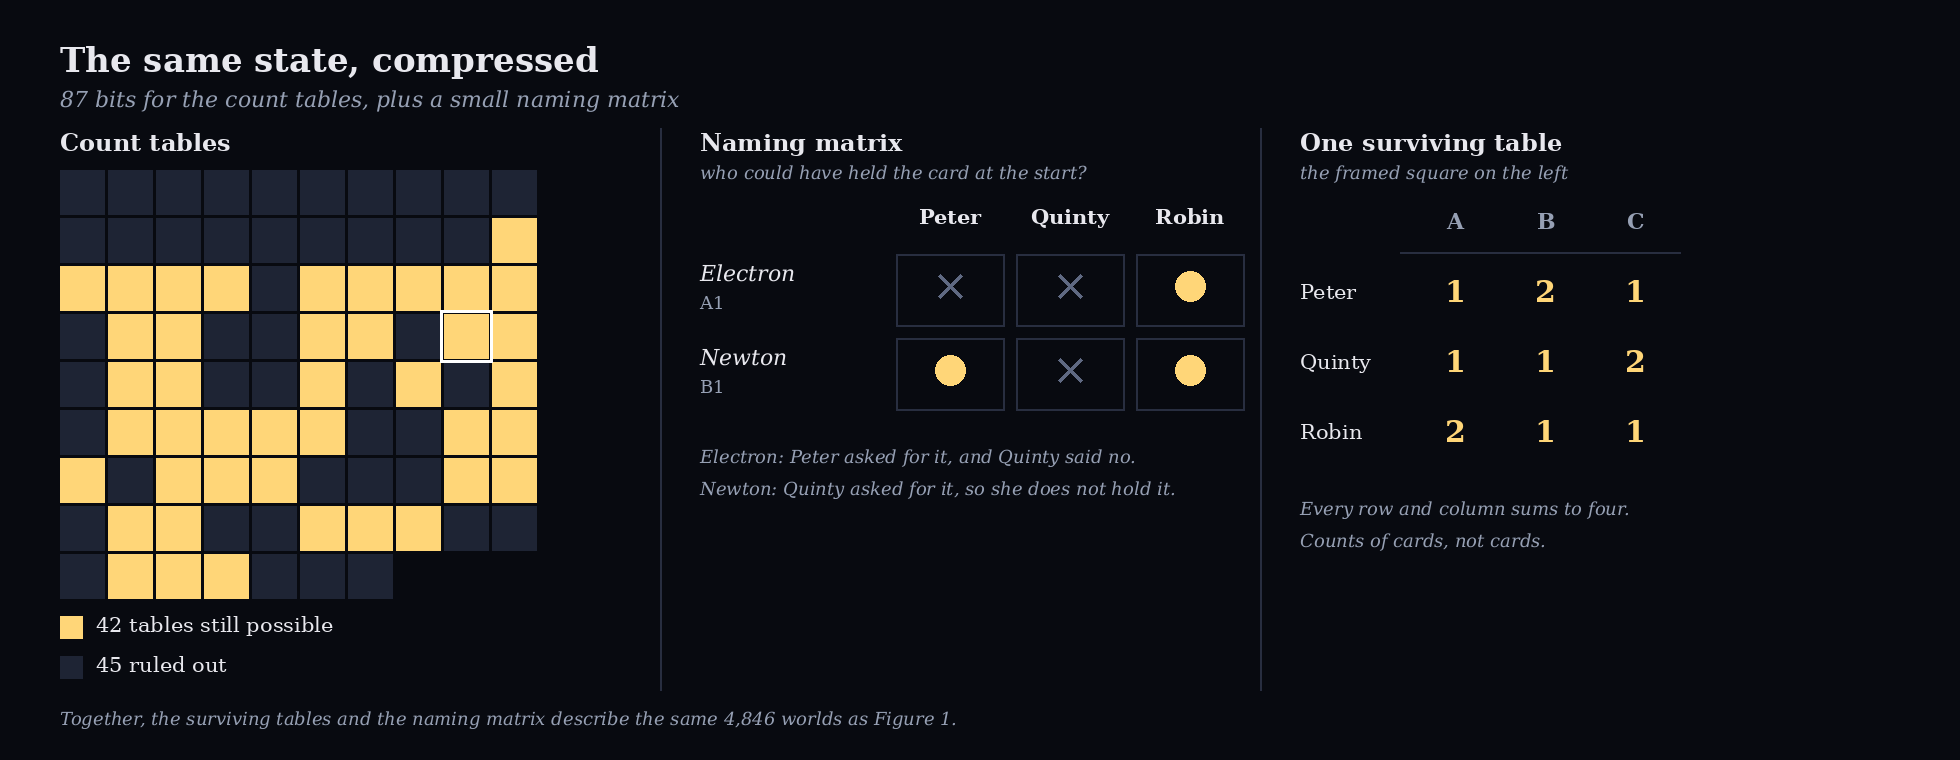
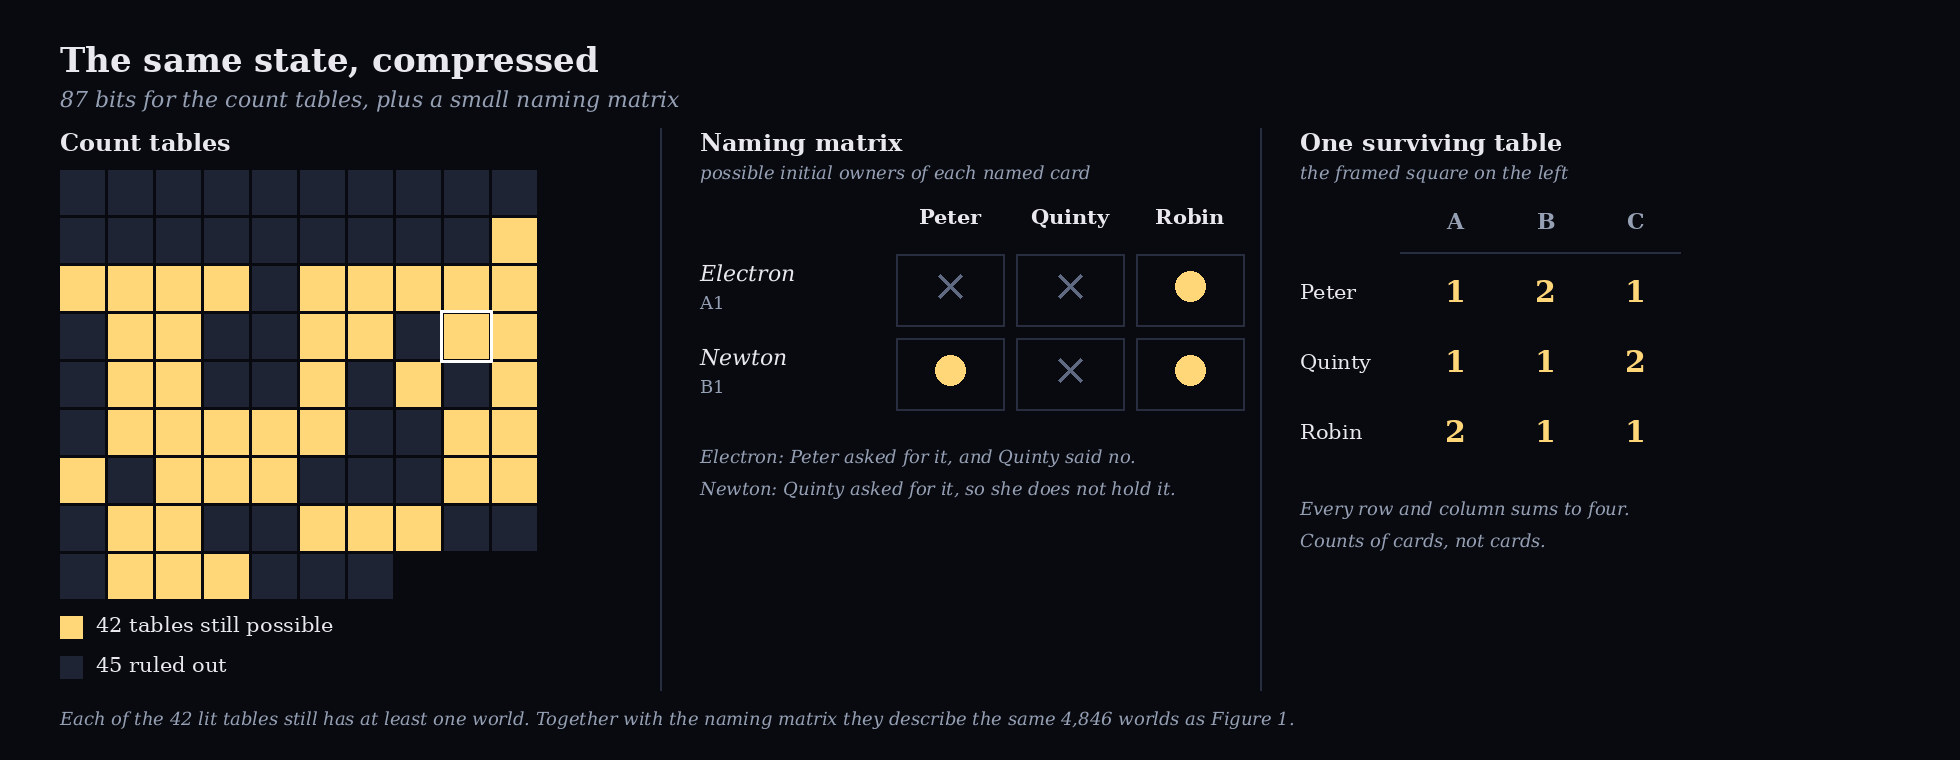
update

Changed region(s): [[0.0311, 0.9382, 0.6536, 0.9684], [0.3423, 0.2118, 0.5602, 0.2421]]

diff --git a/post1/article.md b/post1/article.md
@@ -5,15 +5,17 @@
 ![Feature image: a hand of cards, one named Electron, three still blank](./figures/feature_image.png)
 *Feature image: four cards, one of which has just received its name.*
 
-<!-- Working title and subtitle, not final. Draft status: sections 1-4 are Rob's text (typos and grammar fixed); sections 5-7 are Claude drafts for Rob to edit. Open: side-by-side test result in section 6, pull quote 2 wording, reading list and origin note. Running example is physics (elementary particles, electron). -->
-
 ## Kwartet Without Cards Always Ends in Confusion
 
-Imagine a card game in which no card exists. Not only does no one hold a physical card, but also what is actually on the virtual cards we play with is not yet defined. The cards are made up as you play. The rule is that you are not allowed to make a move that is inconsistent with what happened earlier in the game. A friend proposed this game when we were travelling with some fellow students to a physics conference in the mid-1990s. It was fun, but it always ended in confusion: after a few rounds it became almost impossible to track the history and determine what was still a legal move.
+Imagine a card game in which no card exists. Not only does no one hold a physical card, but also what is actually on the virtual cards we play with is not yet defined. The cards are made up as you play. The rule is that you are not allowed to make a move that is inconsistent with what happened earlier in the game.
+
+I got to know this game when a friend proposed it while we were travelling with some fellow students to a physics conference in the mid-1990s. It was fun, but it always ended in confusion: after a few rounds it became almost impossible to track the history and determine what was still a legal move.
 
 The game is based on the Dutch children's game Kwartet, which is very similar to Go Fish. Players assemble the four cards of a category by asking other players for them. Once you have a complete category you say "Kwartet" and lay down the cards. When you ask for a card you have to be specific ("Can you give me Archimedes from the Greek mathematicians?"). If the other player has the card, it is handed over and you can ask again. If not, it is their turn. You may only ask for a card from a category in which you already hold a card, and never for a card you hold yourself.
 
-In our variant we only fixed how many cards were in the game, how many each player held initially, and the fact that nobody had a kwartet from the start. Then the first question ("Can you give me the electron from the elementary particles?") defined a category (the elementary particles) and one member of that category (the electron). But the question also told us that the first player held at least one other card from the elementary particles, but not the electron. The second player could answer yes or no. Depending on the answer, the card was virtually handed over, or the turn moved to the second player. After a few questions multiple categories were defined, with partially identified members, and a list of constraints on the players' hands emerged. This is where we got lost. Is there a way to manage this bookkeeping?
+In our variant we only fixed how many cards were in the game, how many each player held initially, and the fact that nobody had a kwartet from the start. Then the first question ("Can you give me the electron from the elementary particles?") defined a category (the elementary particles) and one member of that category (the electron). But the question also told us that the first player held at least one other card from the elementary particles, but not the electron. The second player could answer yes or no. Depending on the answer, the card was virtually handed over, or the turn moved to the second player. After a few questions multiple categories were defined, with partially identified members, and a list of constraints on the players' hands emerged. This is where we got lost. 
+
+To add to the confusion, we could never resist complicating the categories: if someone defined Newton as a physicist, someone else would define a Newton as a unit. But aside from that, is there a way to efficiently manage this bookkeeping and discover whether a move is still legal, given what happened before?
 
 ## Give the Blank Cards Secret Labels
 
@@ -27,25 +29,25 @@ Note what this is not. There is no true deal hidden somewhere that the players a
 
 This referee is exact and easy to explain. It maintains a full bookkeeping. On the other hand, it is also wasteful. With three players, keeping track of the multiverse requires 34,032 bits. With four players and four categories of four, the same recipe gives 62,513,568 worlds, about 7.8 megabytes of bits for a single state of the game. And most of these worlds differ only in names that nobody has invented yet.
 
-![Figure 1: the state of the game as one bit per world, with the notebook and the history of questions]((./figures/figure1_state_as_bits.png))
+![Figure 1: the state of the game as one bit per world, with the notebook and the history of questions](./figures/figure1_state_as_bits.png)
 *Figure 1. The game after two questions: one bit per world, with the notebook and the history beside it.*
 
 ## Why Distinguish Cards That Are Still Identical?
 
-Suppose Peter holds cards that did not get any label yet. Why keep separate worlds for two cards whose only difference is a name that does not exist yet? If we swap their labels, we get a different world among the 34,032. But nothing in the game, now or later, can tell the two apart: we have swapped two cards that are both still undefined. The bookkeeping remembers a difference that is not there.
+Suppose Peter and Quinty each hold a card that did not get any label yet. Why keep separate worlds for two cards whose only difference is a name that does not exist yet? If we swap the hidden labels of these two cards, we get a different world among the 34,032. But nothing in the game so far can tell the two apart: we have swapped two cards that are both still undefined. The bookkeeping remembers a difference that is not there.
 
-So, can we exploit this? For each player and each category, we only record how many cards that player started with. A hand then has one of three shapes: three cards of one category and one of another (3-1-0), two and two (2-2-0), or two, one and one (2-1-1). The three players together form a 3×3 table of counts, in which every row and column adds up to four and no entry is four. There are 87 such tables, against 34,032 worlds. A table counts cards, it does not name them, which is why the count is significantly reduced.
+So, can we exploit this? For each player and each category, we only record how many cards that player started with. A hand then has one of three shapes: three cards of one category and one of another (3-1-0), two and two (2-2-0), or two, one and one (2-1-1). The three players together form a 3×3 table of counts, in which every row and column adds up to four and no entry is four. There are 87 such tables, against 34,032 worlds. This table counts cards, it does not label them, which is why the count is significantly reduced.
 
-Names are still relevant, and they are tracked separately. When a card is asked for, it gets a name and a row in a second, small table, the naming matrix, that says which players could have held it at the start.
+Names are still relevant, and they are tracked separately. When a card is asked for, it gets a name and a row in a second, small table, the naming matrix, that lists the possible initial owners of each named card.
 
-Figure 2 shows the game of Figure 1 in this form. After Peter's question about the electron (answered no) and Quinty's question about Newton, 42 of the 87 tables are still possible. The naming matrix says that the electron started with Robin, and that Newton did not start with Quinty. Together they describe exactly the same 4,846 worlds as Figure 1.
+Figure 2 shows the game of Figure 1 in this form. After Peter's question about the electron (answered no) and Quinty's question about Newton, 42 of the 87 tables are still possible, and each of them still has at least one world. The naming matrix says that the electron started with Robin, and that Newton did not start with Quinty. Together they describe exactly the same 4,846 worlds as Figure 1.
 
 ![Figure 2: the same game state as 87 bits for the count tables plus a naming matrix](./figures/figure2_compressed_state.png)
-*Figure 2. The game of Figure 1, compressed: one bit for each of the 87 count tables, plus a naming matrix.*
+*Figure 2. The game of Figure 1, compressed: one bit for each of the 87 count tables, plus a naming matrix. Each of the 42 lit tables has at least one world left.*
 
-The saving is large. Instead of 34,032 bits, about 4 kilobytes, the three-player game needs 87 bits and a handful of named cards, roughly a dozen bytes. For four players and four categories the count tables number 8,515, about a kilobyte, against 7.8 megabytes of worlds.
+The saving is large. Instead of 34,032 bits, about 4 kilobytes, the three-player game needs 87 bits and a handful of named cards, roughly fifteen bytes of essential state information. For four players and four categories the count tables number 8,515, about a kilobyte, against 7.8 megabytes of worlds.
 
-But there is a caveat... Look at the naming matrix. In the multiverse a fifth name in a category of four is noticed at once, because no world survives, and as long as we do not create too many categories or cards in a category there is always room to add a newly mentioned label. In the compressed state we have undefined cards in the game that are yet to receive a category and a label. It is not always the case that we can fit the not yet defined labels on the open cards. It could be that we create an unresolvable puzzle in one round, but only find out a few rounds later.
+But there is a caveat... Look at the naming matrix. In the previous section’s multiverse a fifth name in a category of four is noticed at once, because no world survives, and as long as we do not create too many categories or cards in a category there is always room to add a newly mentioned label. In the compressed state we have undefined cards in the game that are yet to receive a category and a label. It is not always the case that we can fit the not yet defined labels on the open cards. It could be that we create an unresolvable puzzle in one round, but only find out a few rounds later.
 
 ## Locally Possible, Globally Impossible
 
@@ -53,23 +55,25 @@ So, what is the challenge with the naming matrix? It captures the known names an
 
 As an example, we continue the game of Figure 1, with only No answers.
 
-1. Peter asks Quinty for the Electron from Elementary Particles. Quinty says No. We now know that the Electron is one of the cards in Robin's hand.
-2. Quinty asks Peter for Newton from Physicists. Peter says No. (Now Newton is also one of the cards in Robin's hand.)
-3. Peter asks Quinty for the muon. No.
-4. Quinty asks Peter for the photon. No.
+1. Peter asks Quinty for the Electron from Elementary Particles. Quinty says No. We now know that the Electron is one of the cards in Robin's hand. (9,032 worlds are left.)
+2. Quinty asks Peter for Newton from Physicists. Peter says No. (Now Newton is also one of the cards in Robin's hand. 2,262 worlds are left.)
+3. Peter asks Quinty for the muon. No. (418 worlds.)
+4. Quinty asks Peter for the photon. No. (No world is left.)
 
-Each of these questions and answers was by itself legal, and the notebook looks fine. Thirty-six count tables still satisfy what the questions require, and each of the four named cards still has a possible owner: Robin. But the game is already impossible. The electron, the muon and the photon can only be Robin's, since in each case one of Peter and Quinty asked and the other refused. Yet Peter and Quinty both asked for a particle, so each of them holds at least one. That makes five elementary particles in a category of four, or in the language of the tables: three names, and at most two places for them at Robin. Figure 3 shows the clash.
+Each question seemed reasonable, and the notebook looks fine. Thirty-six count tables still satisfy what the questions require, and each of the four named cards still has a possible owner: Robin. But the final No made the whole history impossible. The electron, the muon and the photon can only be Robin's, since in each case one of Peter and Quinty asked and the other refused. Yet Peter and Quinty both asked for a particle, so each of them holds at least one. That makes five elementary particles in a category of four, or in the language of the tables: three names, and at most two places for them at Robin. Figure 3 shows the clash.
 
 ![Figure 3: three names that can only be Robin's, and the two particle places Robin has left](./figures/figure3_names_and_places.png)
 *Figure 3. Every name still has somewhere to go, but together they do not fit.*
 
-This example is easy to see because everything happens in one category and with one player. With more categories and more cards the names and constraints are interleaved, and an unresolvable state can be created without anyone noticing, until much later, or even until the end. In the multiverse we would have seen it immediately at question 4, since the last bit turns off. In the compressed notebook nothing is empty, and the clash only appears later when we compare all names with all places together.
+This example is easy to see because everything happens in one category and with one player. With more categories and more cards the names and constraints are interleaved, and an unresolvable state can be created without anyone noticing, until much later, or even until the end. In the multiverse we would have seen it immediately at question 4, since the last bit turns off. In the compressed notebook the clash only appears later when we compare all names with all places together.
 
-Here the clash is relatively easy to see. Now imagine the places spread over all three players and several categories, with every name allowed in some places and not in others. Each name still looks fine on its own, and the notebook shows nothing empty, but whether all names can be placed at the same time is no longer something we can see at a glance. For this, math comes to the rescue, because this is not a new problem.
+> Every name has somewhere to go. The question is whether they all fit at once.
+
+It turns out that this is a problem mathematicians solved almost a century ago.
 
 ## The Question Is a Marriage Problem in Disguise
 
-Can all the names we have invented be placed, one each, in the places that remain? Mathematicians have been asking this question for almost a century, in another form.
+Can all the names we have invented be placed, one each, in the places that remain? It has a name, and a long history.
 
 Imagine a matchmaker with a group of people. Each person has a list of acceptable partners, and no two people can share a partner. Can everyone be matched at the same time? Our names are the people, our places are the partners, and the list of a name is the set of places where it is still allowed to sit.
 
@@ -77,7 +81,7 @@ The matchmaker can fail in two ways. Someone's list may be empty, which is easy 
 
 > Checking whether a blind game is still possible is a marriage problem.
 
-In 1935 the mathematician Philip Hall proved that crowded groups are the only thing that can go wrong. If every group of k people has, between them, at least k acceptable partners, then everyone can be matched. This is Hall's marriage theorem. (Hall himself wrote about "representatives of subsets"; the marriage wording came later.) The link between blind kwartet and this theorem was made in an article in the Dutch magazine Pythagoras (Brakenhoff and Stolk, 2018). We arrived at the same check from the card side, by tracking which names can still go where.
+In 1935 the mathematician Philip Hall proved that crowded groups are the only thing that can go wrong [4]. If every group of k people has, between them, at least k acceptable partners, then everyone can be matched. This is Hall's marriage theorem (Hall himself wrote about "representatives of subsets"; the marriage wording came later [6]). The link between blind kwartet and this theorem was made in an article in the Dutch magazine Pythagoras [1]. There is a recent paper on Hall’s theorem [5] which gives a recent overview.
 
 In our notebook the check works as follows. The naming matrix tells us, for each name, which players may hold it. A count table tells us how many places each player has in each category, and a count of two means two interchangeable places. For one table we ask whether all names can be placed, category by category. Names that have not been invented yet simply take whatever places are left. If at least one surviving table passes, the game is still possible. If every table fails, as in Figure 3 (which showed the most generous table, the others leave Robin even fewer places), it is not.
 
@@ -91,15 +95,18 @@ The answer is no, and the reason fits in one sentence. Everything that is said i
 
 Take Peter asking Quinty for the muon. This tells us two things: Peter holds another elementary particle (a statement about counts), and Peter does not hold the muon (a statement about owners). Two separate facts, joined by "and". A Yes works the same way: a named card moved from one player to another, which everybody saw, so the notebook only has to shift a known amount in the counts and record where the card came from. A statement such as "either Peter holds three particles or Quinty holds the muon" would tie the two together and break the scheme, but the rules of the game never produce one.
 
-Because of this, the two parts of the notebook never need to know about each other. A world survives exactly when its count table is still allowed and every named card sits with a player who could have held it. All the rest is public bookkeeping: who gave what to whom, and whose turn it is.
+The two parts of the notebook can be updated independently, but they have to agree with each other. A world survives exactly when its count table is still allowed and every named card sits with a player who could have held it, and whether such a world exists at all is what Hall's theorem tells us. All the rest is public bookkeeping: who gave what to whom, and whose turn it is.
 
-<!-- TODO (Rob): add the result of the side-by-side test here, plus one line on quartets and silence, which are the cases that need the most care. -->
+Announcing a quartet keeps only the worlds in which the player holds all four cards of that category, named or not. Continuing without announcing keeps only the worlds in which the player does not. Both are conditions on the counts together with a condition on the named cards.
+
+<!-- TODO (Rob): add the result of the side-by-side test here (in particular for Yes answers, quartets and silence). -->
 
 That is a small notebook. Up to 87 bits for the count tables, at most 36 for the naming matrix (twelve cards, three players), plus the transfers and the turn: roughly 150 bits, instead of 34,032. And we keep the full multiverse around as a slow but certain referee, so the fast one can be checked against it.
 
+We started by giving every card a hidden identity, and keeping track of all 34,032 ways those identities might have been distributed. But the identities we have not named yet do not need to be assigned at all. We can leave them blank, as long as Hall's theorem guarantees that we could fill them in if we wanted to. Nothing is lost by waiting.
+
 Once we can recognise the state of the game, the question from the train comes back: given a legal state, what should we ask?
 
-<!-- Candidate pull quote (hold until the test passes): The 34,032-world multiverse works, but we do not have to remember 34,032 worlds. -->
 
 ## We Can Tell Whether a Move Is Legal. Which Move Is Best?
 
@@ -109,16 +116,19 @@ The same check also tells us something about every question. When someone is ask
 
 So legality was only the first question. The one from the train is still open: is there a good way to play this game? Because we can now evaluate any state quickly, we can let a computer look ahead, question by question and answer by answer. That is the subject of the next post.
 
+## Origins
+As stated in the introduction, I encountered this game in the 1990s. When writing this article I came across ‘Quantum Go Fish’, a very similar game that was apparently played in the math community at Berkeley [2, 3]. I do not know whether it was invented once or multiple times, but the game seems to have been around for a while.
+
 ## References and Further Reading
 
 The game
 
 1. Jos Brakenhoff and Arjen Stolk (edited by Jeanine Daems), "Blind Kwartetten", Pythagoras 57-3, February 2018, p. 6 (in Dutch). [pyth.eu/blind-kwartetten](https://pyth.eu/blind-kwartetten). 
-2. "[Quantum Go Fish: A Game of Mysterious Fingers](https://mathwithbaddrawings.com/wp-content/uploads/2026/03/1cf84-game-35-quantum-go-fish.pdf)"
+2. Ben Orlin, "[Quantum Go Fish: A Game of Mysterious Fingers](https://mathwithbaddrawings.com/wp-content/uploads/2026/03/1cf84-game-35-quantum-go-fish.pdf)", chapter "Game 35" (hosted on the Math with Bad Drawings site).
 3. "[How to Play Quantum Go Fish](https://stacky.net/wiki/index.php?title=Quantum_Go_Fish)"
 
 The mathematics
 
-4. Philip Hall, "[On representatives of subsets", Journal of the London Mathematical Society 10 (1935)](https://londmathsoc.onlinelibrary.wiley.com/doi/epdf/10.1112/jlms/s1-10.37.26)
+4. Philip Hall, "[On representatives of subsets](https://londmathsoc.onlinelibrary.wiley.com/doi/epdf/10.1112/jlms/s1-10.37.26)", Journal of the London Mathematical Society 10 (1935), 26-30.
 5. Peter J. Cameron, "Hall's marriage theorem", [arXiv:2503.23159](https://arxiv.org/abs/2503.23159), March 2025. 
-6. Paul Halmos and Herbert Vaughan, "The marriage problem", American Journal of Mathematics, 1950. The paper that gave the theorem its marriage name, according to the Wikipedia article on Hall's marriage theorem.
+6. Paul Halmos and Herbert Vaughan, "The marriage problem", American Journal of Mathematics, 1950. 
